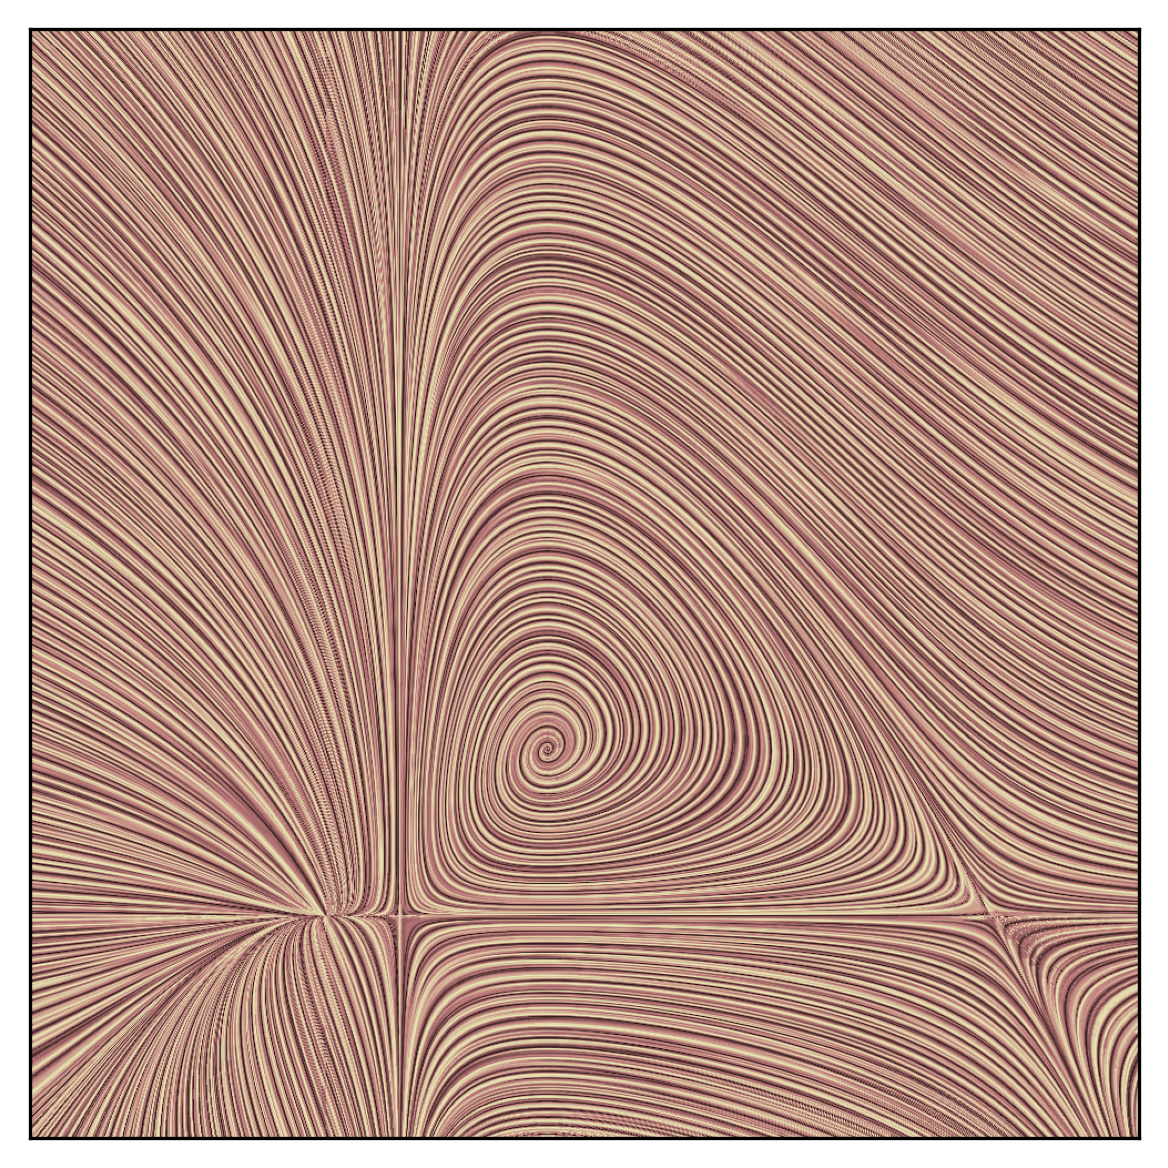
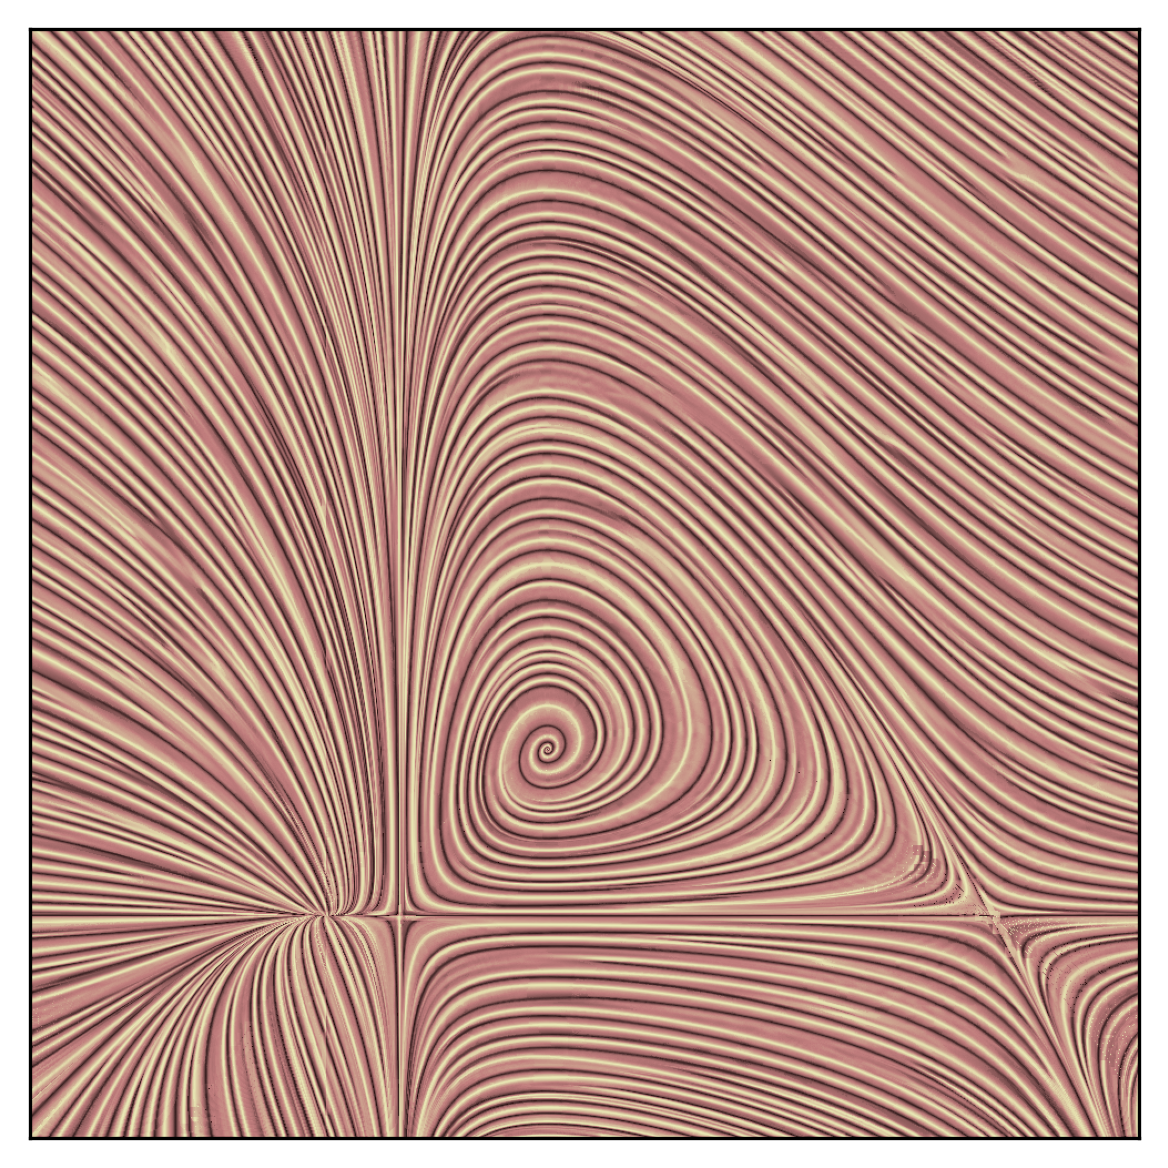
update-param(seed_smoothing_sigma): tune default to 1/333 and darken gallery renders.

diff --git a/src/vegtamr/lic/_api.py b/src/vegtamr/lic/_api.py
@@ -59,7 +59,7 @@ def compute_lic(
         2D scalar field with shape `(num_rows, num_cols)` to seed the LIC; a random field is generated if `None`.
     - `seed_smoothing_sigma`:
         widens the correlation length of the generated seed field (only used if `sfield_in` is `None`);
-        defaults to 1/200 of the smallest domain dimension.
+        defaults to 1/333 of the smallest domain dimension.
     """
     from vegtamr.lic import _serial, _parallel_by_row, _postprocess
     _ensure_valid_lic_inputs(
@@ -72,7 +72,7 @@ def compute_lic(
     if sfield_in is None:
         if seed_sfield is not None: numpy.random.seed(seed_sfield)
         sfield_in = numpy.random.rand(num_rows, num_cols).astype(numpy.float32)
-        if seed_smoothing_sigma is None: seed_smoothing_sigma = float(min(num_rows, num_cols)) / 200
+        if seed_smoothing_sigma is None: seed_smoothing_sigma = float(min(num_rows, num_cols)) / 333
         if seed_smoothing_sigma > 0.0:
             sfield_in = _postprocess.filter_lowpass(sfield_in, seed_smoothing_sigma).astype(numpy.float32)
     if streamlength is None: streamlength = int(min(num_rows, num_cols) // 4)
@@ -129,7 +129,7 @@ def compute_lic_with_postprocessing(
         2D scalar field with shape `(num_rows, num_cols)` to seed the LIC; a random field is generated if `None`.
     - `seed_smoothing_sigma`:
         widens the correlation length of the generated seed field (only used if `sfield_in` is `None`);
-        defaults to 1/200 of the smallest domain dimension.
+        defaults to 1/333 of the smallest domain dimension.
     - `backend`:
         `"rust"` or `"python"`; see above for the tradeoff.
     """
@@ -139,7 +139,7 @@ def compute_lic_with_postprocessing(
     if sfield_in is None:
         if seed_sfield is not None: numpy.random.seed(seed_sfield)
         sfield_in = numpy.random.rand(*shape).astype(dtype)
-        if seed_smoothing_sigma is None: seed_smoothing_sigma = float(min(shape)) / 200
+        if seed_smoothing_sigma is None: seed_smoothing_sigma = float(min(shape)) / 333
         if seed_smoothing_sigma > 0.0:
             sfield_in = _postprocess.filter_lowpass(sfield_in, seed_smoothing_sigma).astype(dtype)
     if streamlength is None: streamlength = int(min(shape) // 4)

diff --git a/demos/demo-lic.py b/demos/demo-lic.py
@@ -26,7 +26,7 @@ from vegtamr.utils import vfields, plots
 
 def main() -> None:
     print("Running demo script...")
-    num_cells = 500
+    num_cells = 1000
     vfield_config = vfields.vfield_swirls(num_cells=num_cells)
     vfield = vfield_config.vfield
     streamlength = vfield_config.streamlength
@@ -55,6 +55,7 @@ def main() -> None:
         sfield=sfield,
         vfield=vfield,
         cmap_name="pink",
+        cmap_range=(0.0, 0.75),
         bounds_rows=bounds_rows,
         bounds_cols=bounds_cols,
         overlay_streamlines=False,

diff --git a/README.md b/README.md
@@ -117,11 +117,11 @@ There are a number of parameters for you to experiment with; the effect of `stre
 
 In practice you will want to choose a `streamlength` close to the correlation length (in cells) of the structures you are trying to highlight. Depending on the effect you're aiming for, you can also play around with turning on the highpass filter (`use_filter`), changing its size (`filter_sigma`; controls the thickness of tubes), and turning on intensity equalization (`use_equalize`).
 
-You can also control the width of the woven grooves by smoothing the seed field before it is convolved, via `seed_smoothing_sigma`; this is demonstrated by `demos/demo-seed-smoothing.py`, which produces the following image:
+You can also control the width of the brush strokes by smoothing the initial field that seeds the LIC, via `seed_smoothing_sigma`; this is demonstrated by `demos/demo-seed-smoothing.py`, which produces the following image:
 
 <img src="https://raw.githubusercontent.com/AstroKriel/LineIntegralConvolutions/refs/heads/main/gallery/effect_of_seed_smoothing.png" width="100%" />
 
-By default `seed_smoothing_sigma` is `None`, which scales to 1/200 of the smallest domain dimension; pushing it too high starts to introduce artefacts near saddle points in the vector field.
+By default `seed_smoothing_sigma` scales with the size of the domain, but you are free to tweak the value as you please; note, pushing it too high starts to introduce artefacts near saddle points.
 
 > **Note:** If you want a darker look without touching the underlying data, `plot_lic` also accepts `cmap_range`, e.g. `cmap_range=(0.0, 0.75)`; this restricts which portion of the colormap is used, so the full value range maps smoothly to the restricted color range without clipping.
 
